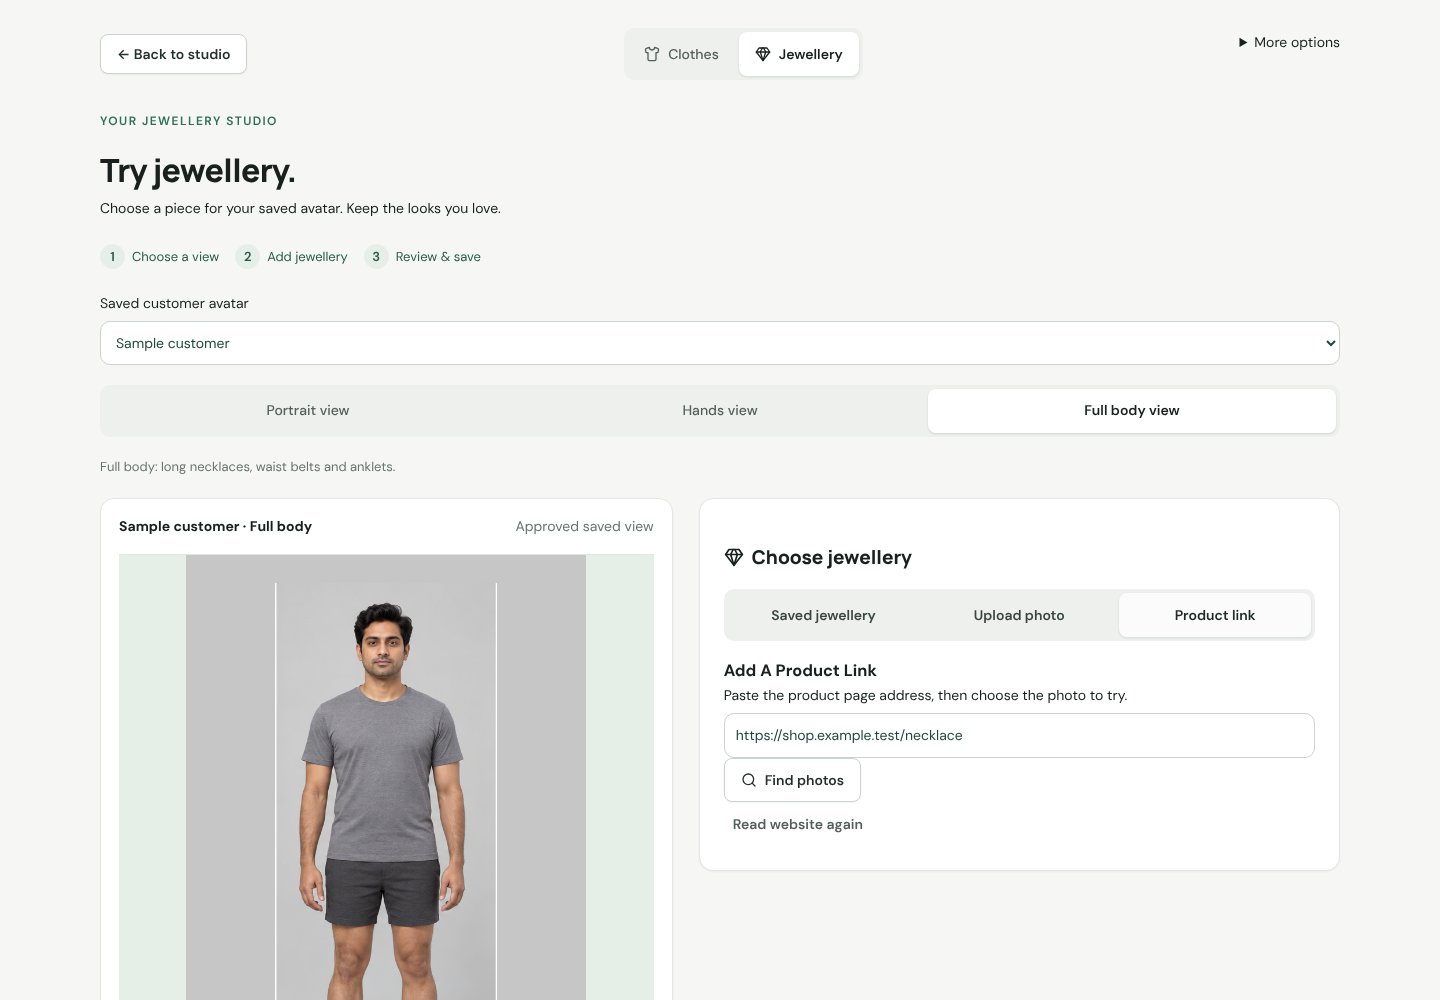
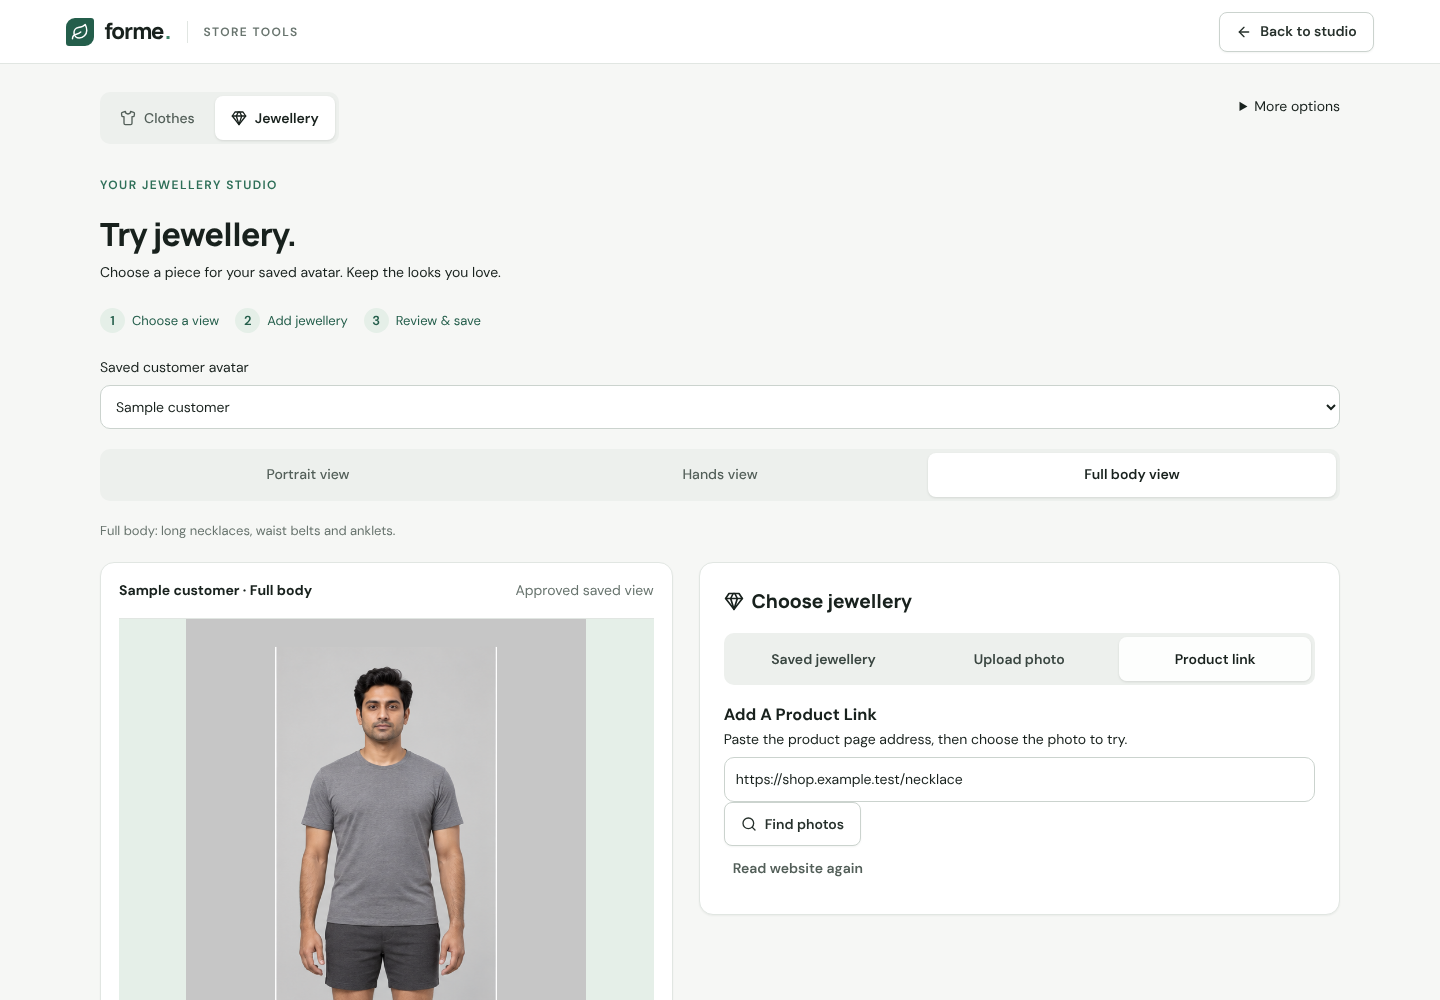
Restyle the public shop page to match the studio
Neutral palette, product tiles with the store colour on Try it on buttons, a
contact card with Call store and Get directions buttons. Saved-avatars browser
test waits for the rename instead of reading before it lands.

Claude-Session: https://claude.ai/code/session_0168XhMEG81ABQ1Lzv4ywD8x

diff --git a/server/shop-page.js b/server/shop-page.js
@@ -377,8 +377,27 @@ export function tryOnLink(page, brand, itemName) {
   if (brand.phone) return `tel:${brand.phone}`;
   return "";
 }
-const css =
-  "*{box-sizing:border-box}body{margin:0;background:#f7f8f3;color:#233d31;font:16px/1.6 system-ui,sans-serif}main{max-width:1040px;margin:auto;padding:max(24px,env(safe-area-inset-top)) max(16px,env(safe-area-inset-right)) max(40px,env(safe-area-inset-bottom)) max(16px,env(safe-area-inset-left))}@media(min-width:1280px){main{max-width:1200px}}h2{font-size:22px;margin:32px 0 12px}p{overflow-wrap:anywhere;white-space:pre-line}a{color:#205c47}.tagline{font-size:18px;margin:-8px 0 16px}.cta{display:inline-flex;align-items:center;min-height:44px;padding:10px 20px;border-radius:999px;background:var(--brand);color:var(--brand-ink);text-decoration:none;font-weight:600}.hero{display:block;width:100%;max-height:60vh;object-fit:cover;border-radius:16px;margin:16px 0}.gallery,.items{display:grid;gap:16px;grid-template-columns:repeat(auto-fill,minmax(200px,1fr))}@media(max-width:600px){.gallery,.items{gap:10px;grid-template-columns:repeat(2,minmax(0,1fr))}.item{padding:8px}}.gallery figure{margin:0}.gallery img,.item img{display:block;width:100%;aspect-ratio:4/5;object-fit:cover;border-radius:12px;background:white}.item img{object-fit:contain}figcaption{font-size:14px;color:#596b60;margin-top:6px}.item{padding:12px;border:1px solid #d8dfd3;border-radius:14px;background:white;display:flex;flex-direction:column;gap:6px}.item h3{font-size:16px;margin:4px 0 0;overflow-wrap:anywhere}.item .price{font-weight:600}.item s{color:#7a877f;font-weight:400;margin-left:6px}.item .low{color:#a14b12;font-size:14px}.item nav{display:flex;gap:4px 12px;flex-wrap:wrap;margin-top:auto;font-size:15px}.item nav a,.store-contact nav a{display:inline-flex;align-items:center;min-height:44px}.info{display:grid;gap:16px;grid-template-columns:repeat(auto-fit,minmax(260px,1fr))}.info section{padding:16px 20px;border:1px solid #d8dfd3;border-radius:14px;background:white}.info h2{margin-top:0}.powered{margin-top:32px;font-size:13px;color:#596b60}.preview{padding:10px 14px;border-radius:10px;background:#fff4d6;color:#5c4300}";
+// Same neutral palette as the studio (docs/DESIGN_SYSTEM.md); the store's own colour is --brand.
+const css = [
+  "*{box-sizing:border-box}body{margin:0;background:#f6f7f5;color:#18211d;font:16px/1.6 system-ui,-apple-system,'Segoe UI',sans-serif;-webkit-font-smoothing:antialiased}",
+  "main{max-width:1040px;margin:auto;padding:max(24px,env(safe-area-inset-top)) max(16px,env(safe-area-inset-right)) max(40px,env(safe-area-inset-bottom)) max(16px,env(safe-area-inset-left))}@media(min-width:1280px){main{max-width:1200px}}",
+  "h2{font-size:22px;font-weight:700;letter-spacing:-.01em;margin:40px 0 12px}p{overflow-wrap:anywhere;white-space:pre-line}a{color:var(--brand)}",
+  ".tagline{font-size:18px;color:#3a4641;margin:-4px 0 16px}",
+  ".cta{display:inline-flex;align-items:center;justify-content:center;min-height:48px;padding:12px 24px;border-radius:999px;background:var(--brand);color:var(--brand-ink);text-decoration:none;font-weight:600;box-shadow:0 1px 3px rgb(24 33 29/.12)}",
+  ".hero{display:block;width:100%;max-height:60vh;object-fit:cover;border-radius:16px;margin:20px 0}",
+  ".gallery,.items{display:grid;gap:16px;grid-template-columns:repeat(auto-fill,minmax(210px,1fr))}@media(max-width:600px){.gallery,.items{gap:10px;grid-template-columns:repeat(2,minmax(0,1fr))}.item{padding:8px}}",
+  ".gallery figure{margin:0}.gallery img,.item img{display:block;width:100%;aspect-ratio:4/5;object-fit:cover;border-radius:12px;background:#edf0ed}.item img{object-fit:contain;padding:8px}figcaption{font-size:14px;color:#535f59;margin-top:6px}",
+  ".item{padding:12px;border:1px solid #e1e6e2;border-radius:14px;background:#fff;display:flex;flex-direction:column;gap:4px;box-shadow:0 1px 2px rgb(24 33 29/.05)}",
+  ".item h3{font-size:16px;font-weight:600;margin:8px 0 0;overflow-wrap:anywhere}.item small{color:#535f59}.item .price{font-weight:700}.item s{color:#68746e;font-weight:400;margin-left:6px}.item .low{color:#93500b;font-size:14px;font-weight:500}",
+  ".item nav{display:flex;flex-direction:column;gap:2px;margin-top:auto;padding-top:8px;font-size:15px}",
+  ".item nav a:first-child{justify-content:center;border-radius:999px;background:var(--brand);color:var(--brand-ink);text-decoration:none;font-weight:600}.item nav a+a{justify-content:center;font-weight:500}",
+  ".item nav a,.store-contact nav a{display:inline-flex;align-items:center;min-height:44px}",
+  ".info{display:grid;gap:16px;grid-template-columns:repeat(auto-fit,minmax(260px,1fr))}.info section{padding:20px 24px;border:1px solid #e1e6e2;border-radius:14px;background:#fff;box-shadow:0 1px 2px rgb(24 33 29/.05)}.info h2{margin-top:0;font-size:18px}",
+  ".powered{margin-top:32px;font-size:13px;color:#68746e}.preview{padding:10px 14px;border-radius:10px;background:#fdf6e7;color:#93500b}",
+].join("");
+// Loaded after the shared brand styles so the shop page header and contact card match the page.
+const shopBrandCss =
+  ".store-brand{border-radius:16px;padding:28px 24px}.store-brand h1{font-size:clamp(26px,4vw,36px);letter-spacing:-.02em}.store-contact{margin:40px 0 0;padding:20px 24px;border:1px solid #e1e6e2;border-radius:14px;background:#fff}.store-contact p{margin:0 0 8px;color:#3a4641}.store-contact nav{gap:12px}.store-contact nav a{padding:0 20px;border:1px solid #cbd3ce;border-radius:999px;text-decoration:none;font-weight:600;color:#18211d}";
 export function shopPageHtml({ page, brand, photos, items, slug, preview = false }) {
   const base = `/shop/${encodeURIComponent(slug)}`,
     [hero, ...rest] = photos,
@@ -400,7 +419,7 @@ export function shopPageHtml({ page, brand, photos, items, slug, preview = false
     page.hours ? `<section><h2>Opening hours</h2><p>${escape(page.hours)}</p></section>` : "",
   ].join("");
   const body = `${preview ? '<p class="preview" role="status">Preview: only your store team can see this page until it is published.</p>' : ""}${brandHeader(brand, `${base}/logo`)}${page.tagline ? `<p class="tagline">${escape(page.tagline)}</p>` : ""}${tryAll ? `<a class="cta" href="${escape(tryAll)}"${external(tryAll)}>Book a try-on</a>` : ""}${hero ? photo(hero, "hero") : ""}${info ? `<div class="info">${info}</div>` : ""}${rest.length ? `<h2>Inside our shop</h2><div class="gallery">${rest.map((p) => `<figure>${photo(p)}${p.caption ? `<figcaption>${escape(p.caption)}</figcaption>` : ""}</figure>`).join("")}</div>` : ""}${page.showCatalogue && items.length ? `<h2>In store now</h2><p>See a piece you like? Tap “Try it on” and the store will set up a virtual try-on on your own avatar.</p><div class="items">${items.map(item).join("")}</div>` : ""}${brandContact(brand)}<p class="powered">Virtual try-on by Forme. Try-on images are an approximate visual guide and do not predict size or fit.</p>`;
-  return `<!doctype html><html lang="en"><head><meta charset="utf-8"><meta name="viewport" content="width=device-width,initial-scale=1,viewport-fit=cover"><title>${escape(brand.displayName)}</title><meta name="theme-color" content="${brand.primaryColor}"><link rel="manifest" href="${base}/manifest.webmanifest"><link rel="icon" type="image/png" sizes="192x192" href="${base}/icon-192.png"><link rel="apple-touch-icon" href="${base}/icon-180.png"><meta name="apple-mobile-web-app-capable" content="yes"><meta name="mobile-web-app-capable" content="yes"><meta name="apple-mobile-web-app-title" content="${escape(brand.displayName.slice(0, 30))}">${page.tagline ? `<meta name="description" content="${escape(page.tagline)}">` : ""}<meta property="og:title" content="${escape(brand.displayName)}"><style>${css}${brandCss}</style></head><body><main style="--brand:${brand.primaryColor};--brand-ink:${brandInk(brand.primaryColor)}">${body}</main></body></html>`;
+  return `<!doctype html><html lang="en"><head><meta charset="utf-8"><meta name="viewport" content="width=device-width,initial-scale=1,viewport-fit=cover"><title>${escape(brand.displayName)}</title><meta name="theme-color" content="${brand.primaryColor}"><link rel="manifest" href="${base}/manifest.webmanifest"><link rel="icon" type="image/png" sizes="192x192" href="${base}/icon-192.png"><link rel="apple-touch-icon" href="${base}/icon-180.png"><meta name="apple-mobile-web-app-capable" content="yes"><meta name="mobile-web-app-capable" content="yes"><meta name="apple-mobile-web-app-title" content="${escape(brand.displayName.slice(0, 30))}">${page.tagline ? `<meta name="description" content="${escape(page.tagline)}">` : ""}<meta property="og:title" content="${escape(brand.displayName)}"><style>${css}${brandCss}${shopBrandCss}</style></head><body><main style="--brand:${brand.primaryColor};--brand-ink:${brandInk(brand.primaryColor)}">${body}</main></body></html>`;
 }
 
 // One public model of the page for the web page and for app clients (iOS, Android,

diff --git a/tests/browser/saved-avatars.spec.js b/tests/browser/saved-avatars.spec.js
@@ -69,24 +69,30 @@ test("an explicitly saved customer avatar survives reload, reopens for clothes, 
   await save(page, "Customer A");
   // Saving the same PNG again updates the name rather than duplicating it.
   await save(page, "Customer A updated");
-  const records = await page.evaluate(async () => {
-    const db = await new Promise((resolve, reject) => {
-      const r = indexedDB.open("forme-saved-avatars", 1);
-      r.onsuccess = () => resolve(r.result);
-      r.onerror = () => reject(r.error);
+  // The second save shows the same notice as the first, so wait for the rename to land.
+  const readRecords = () =>
+    page.evaluate(async () => {
+      const db = await new Promise((resolve, reject) => {
+        const r = indexedDB.open("forme-saved-avatars", 1);
+        r.onsuccess = () => resolve(r.result);
+        r.onerror = () => reject(r.error);
+      });
+      const all = await new Promise((resolve, reject) => {
+        const r = db.transaction("avatars").objectStore("avatars").getAll();
+        r.onsuccess = () => resolve(r.result);
+        r.onerror = () => reject(r.error);
+      });
+      db.close();
+      return all.map((item) => ({
+        keys: Object.keys(item).sort(),
+        type: item.image.type,
+        name: item.name,
+      }));
     });
-    const all = await new Promise((resolve, reject) => {
-      const r = db.transaction("avatars").objectStore("avatars").getAll();
-      r.onsuccess = () => resolve(r.result);
-      r.onerror = () => reject(r.error);
-    });
-    db.close();
-    return all.map((item) => ({
-      keys: Object.keys(item).sort(),
-      type: item.image.type,
-      name: item.name,
-    }));
-  });
+  await expect
+    .poll(async () => (await readRecords()).map((record) => record.name))
+    .toEqual(["Customer A updated"]);
+  const records = await readRecords();
   expect(records).toEqual([
     {
       keys: [

diff --git a/CHANGELOG.md b/CHANGELOG.md
@@ -4,6 +4,11 @@ Release notes for the Forme web studio, newest first. Feature guides live in [do
 
 ## Unreleased
 
+- Store-tool pages (catalogue, billing, usage, analytics, branding, shop page editor,
+  WhatsApp and others) and the try-on studios share the Forme header with **Back to
+  studio**, neutral card borders and styled links. The public shop page uses the same
+  calm palette with the store's colour on **Try it on** buttons, image tiles and a
+  contact card with **Call store** and **Get directions** buttons.
 - New look for the store studio: one shared set of colours, type sizes, corners and
   shadows across every screen (see [design system](docs/DESIGN_SYSTEM.md)). Text is
   larger and higher-contrast (nothing below 11px, hints at 12–13px), buttons and inputs
